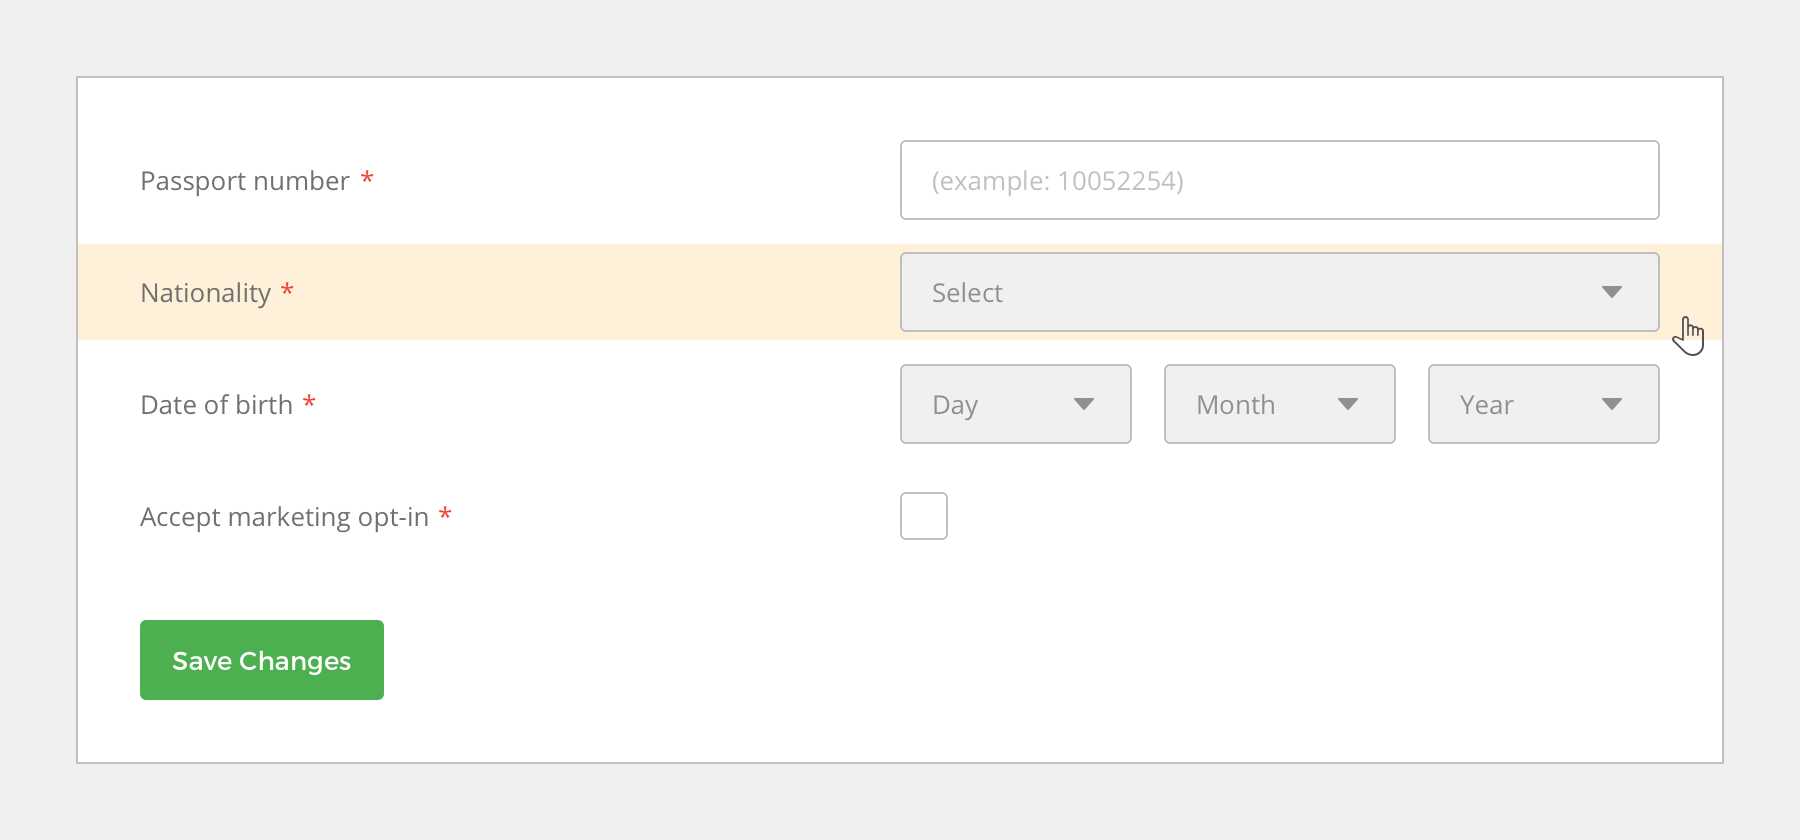
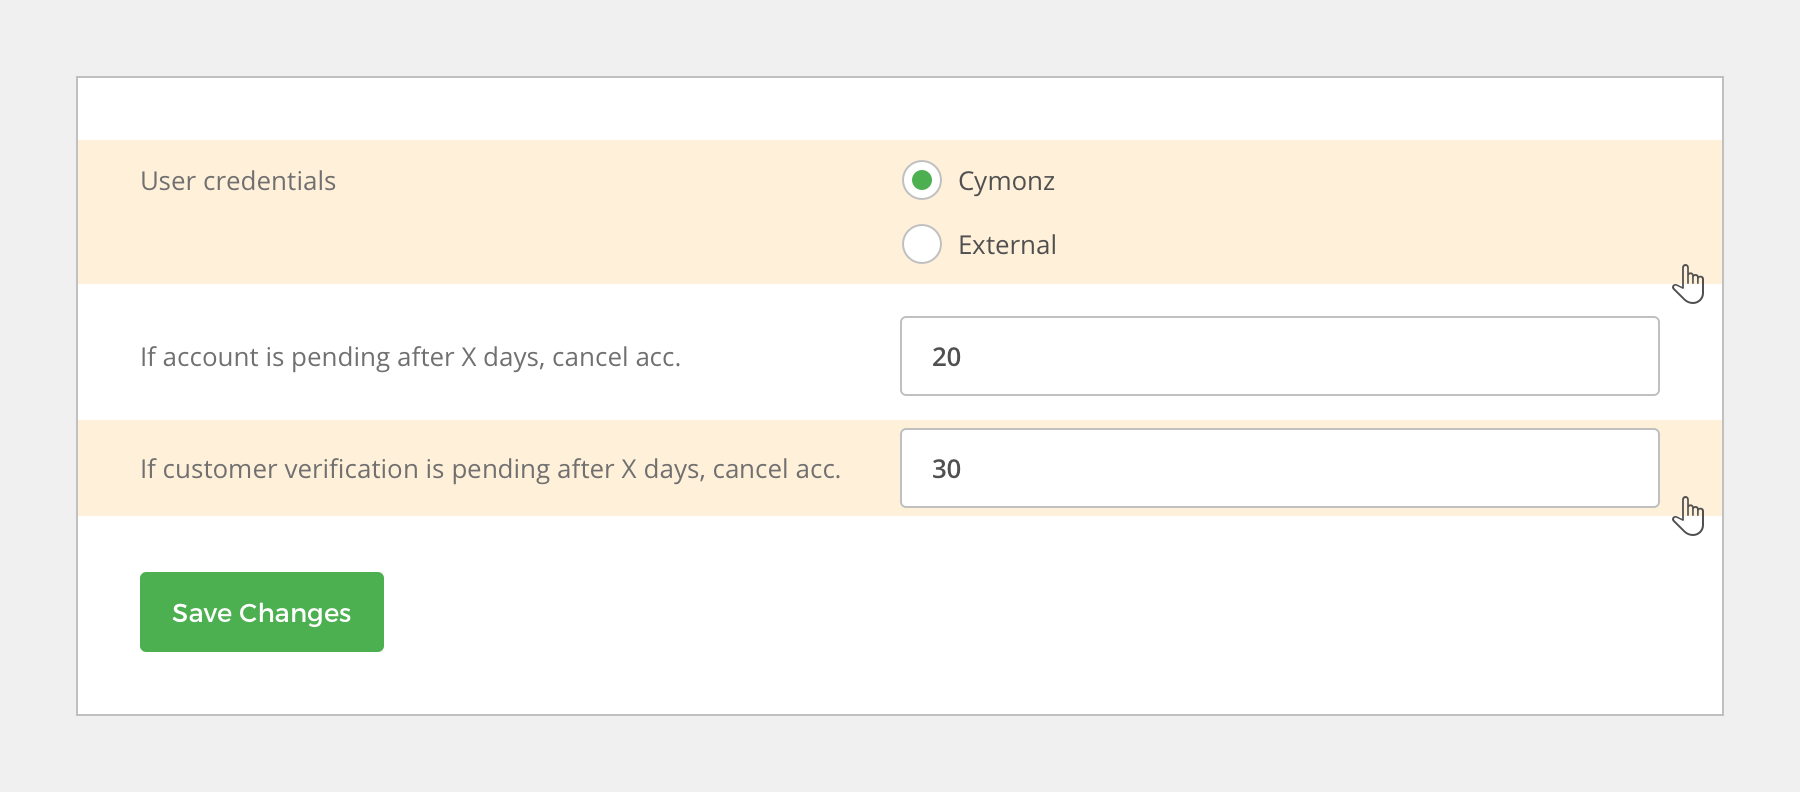
Updates organisms/forms.md
Auto commit by GitBook Editor

diff --git a/organisms/forms.md b/organisms/forms.md
@@ -6,7 +6,9 @@ Besides tables, forms are mostly used organisms in the Back Office application. 
 
 #### General guidelines {#spacing-guidelines}
 
-* On desktop resolutions labels and inputs are displayed inline.
+* On desktop resolutions, labels and inputs are displayed inline.
+* Every row has a hover effect to make it easier for users to focus on a single input type.
+* Hover effect's height depends on the height of the row/s with additional 4px on top and on bottom.
 
 #### Spacing guidelines {#spacing-guidelines}
 
@@ -36,8 +38,8 @@ hight: 40px;
 ![](/assets/organisms/forms-row-hover.png)
 
 ```
-/* Row / hover */
-height: 48px;
+/* Row / on hover */
+height: auto;
 width: 100%;
 background-color: $O100;
 ```
